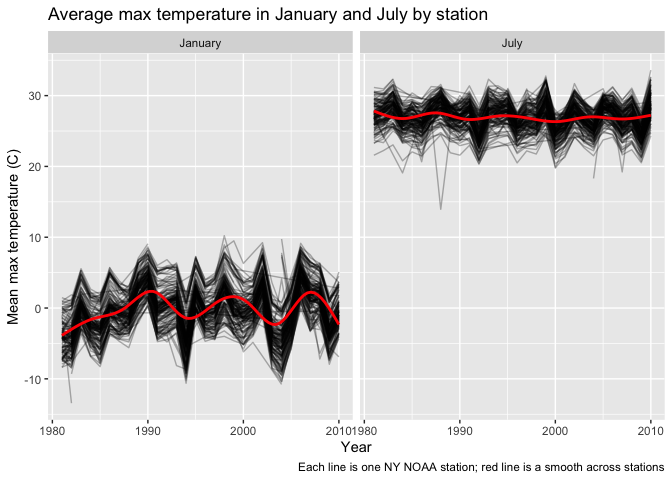
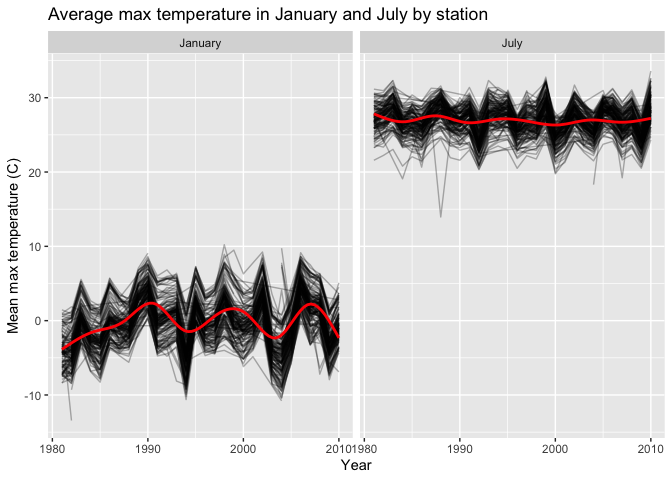
edits

diff --git a/p8105_hw3_anh2179.md b/p8105_hw3_anh2179.md
@@ -51,8 +51,7 @@ and is left as is.
 
 ``` r
 ny_noaa_df |> 
-  count(snow) |> 
-  arrange(desc(n)) |> 
+  count(snow, sort=TRUE) |> 
   head(10) |> 
   knitr::kable(col.names = c("Snowfall (mm)", "Count"))
 ```
@@ -94,7 +93,6 @@ ny_noaa_df |>
     title = "Average max temperature in January and July by station",
     x = "Year",
     y = "Mean max temperature (C)",
-    caption = "Each line is one NY NOAA station; red line is a smooth across stations"
   )
 ```
 
